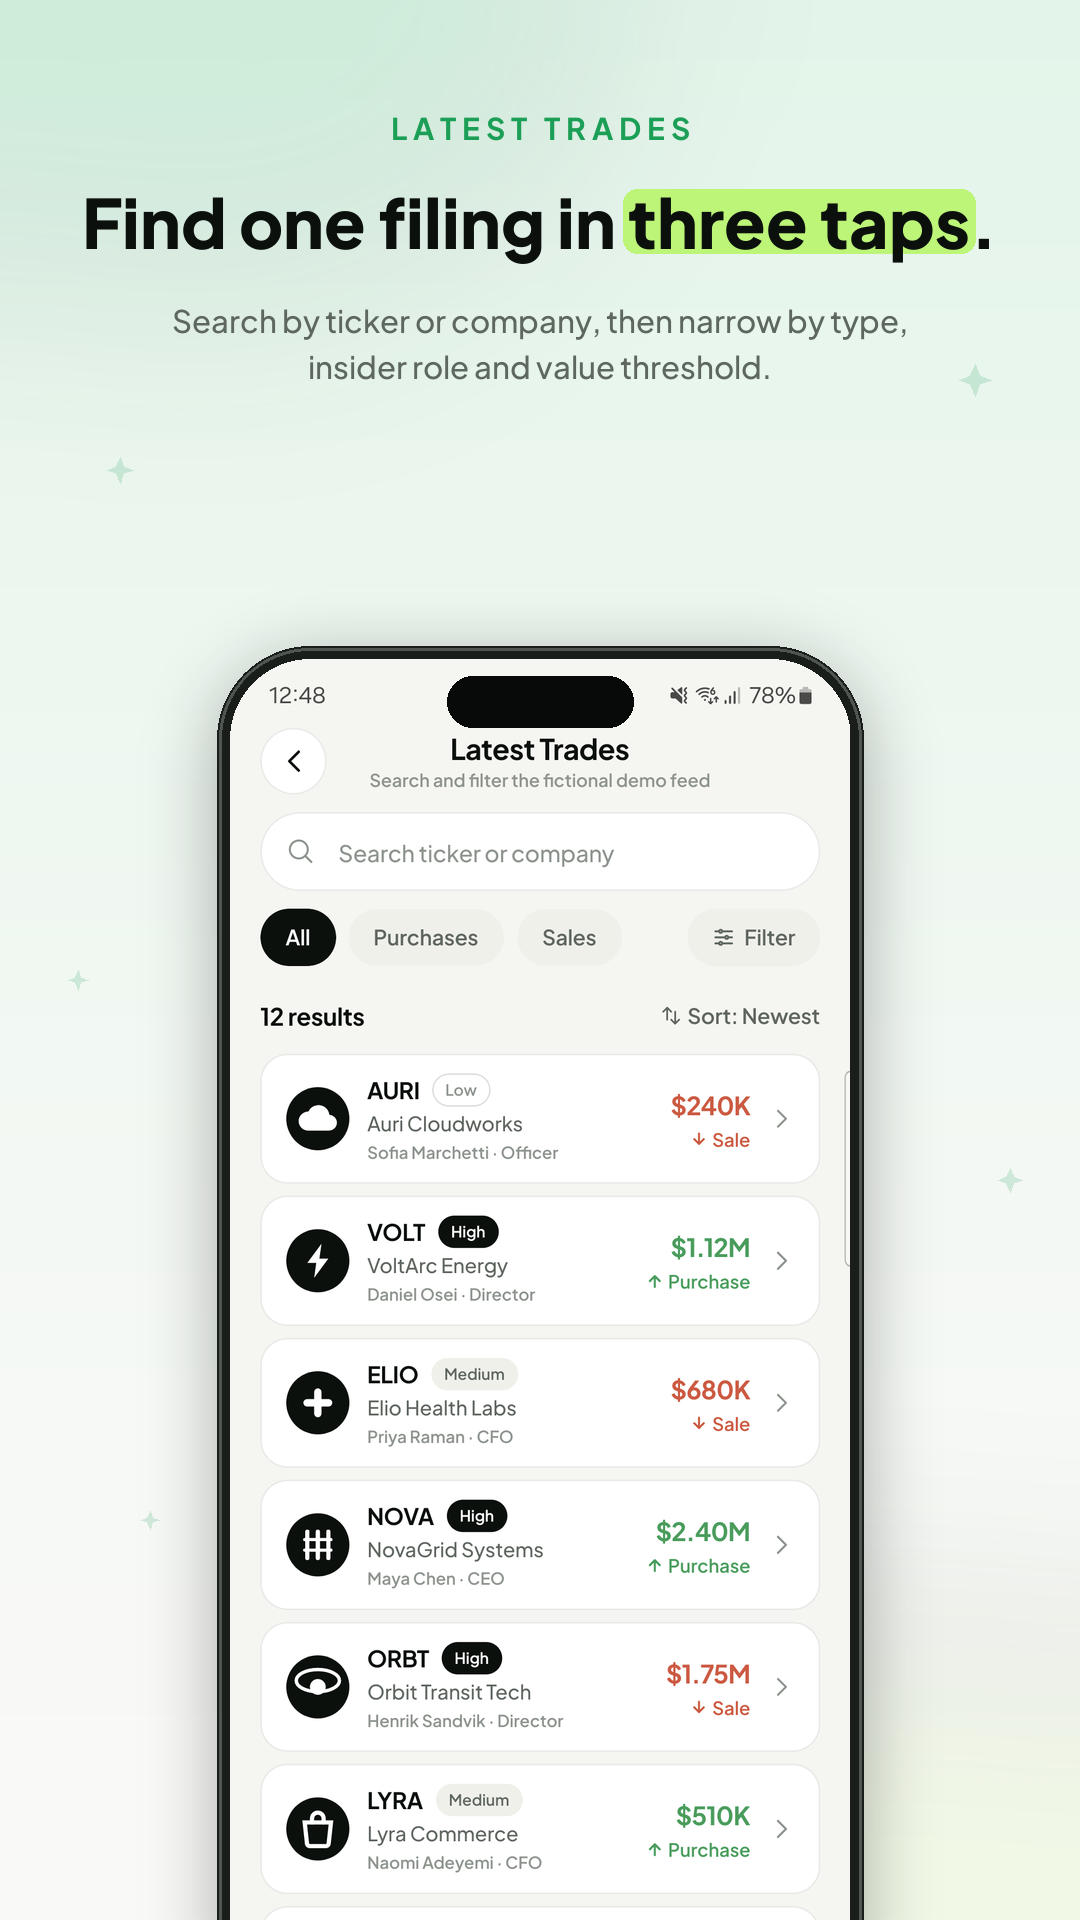
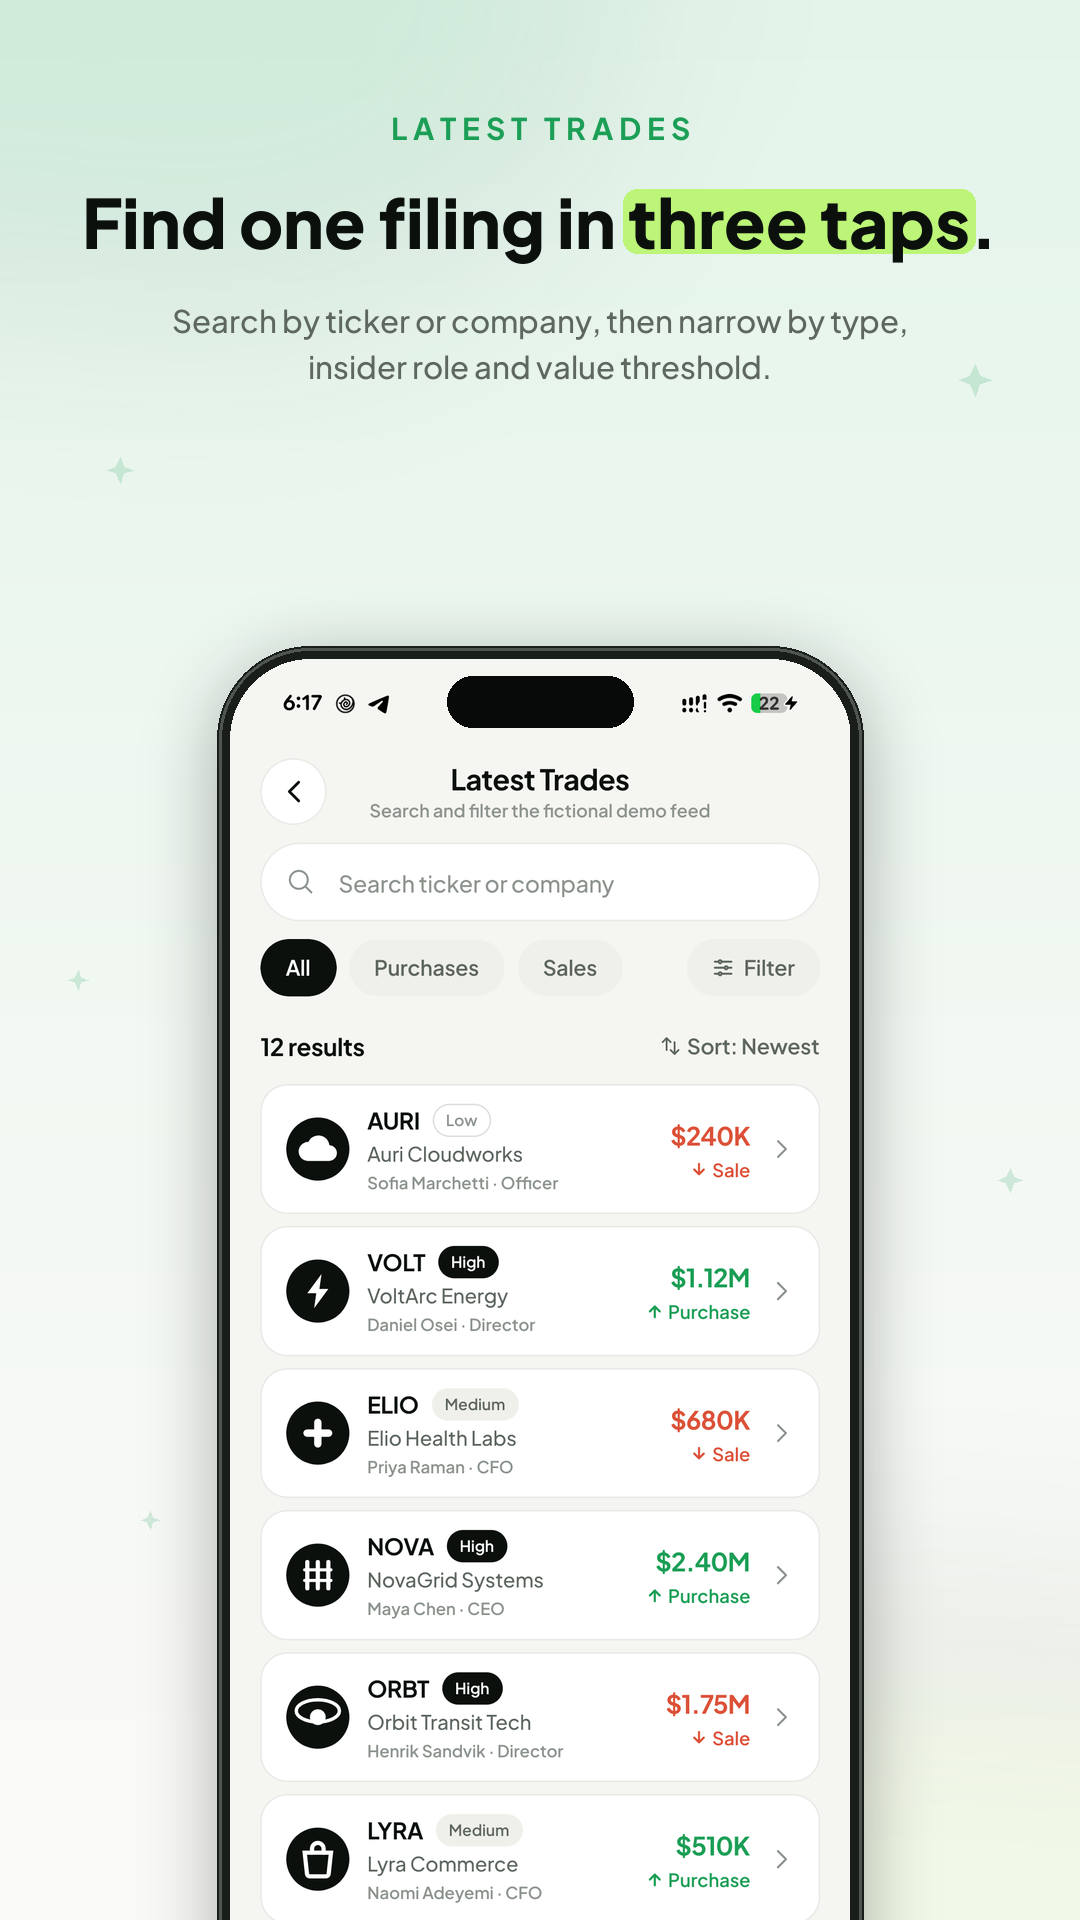
Refresh screenshots from pixel device

diff --git a/README.md b/README.md
@@ -76,7 +76,8 @@ the wordmark rises beneath it, and the cover lifts away onto Market Pulse
 
 ## Screenshots
 
-Captured on a physical Samsung Galaxy S21 FE 5G (Android 14, 1080×2340, 411dp wide).
+Captured on a physical Google Pixel 10a (Android 17, 1080×2424, 411dp wide). The app was
+tested on two devices; see Testing below.
 
 | Market Pulse | Latest Trades | Filters |
 |---|---|---|
